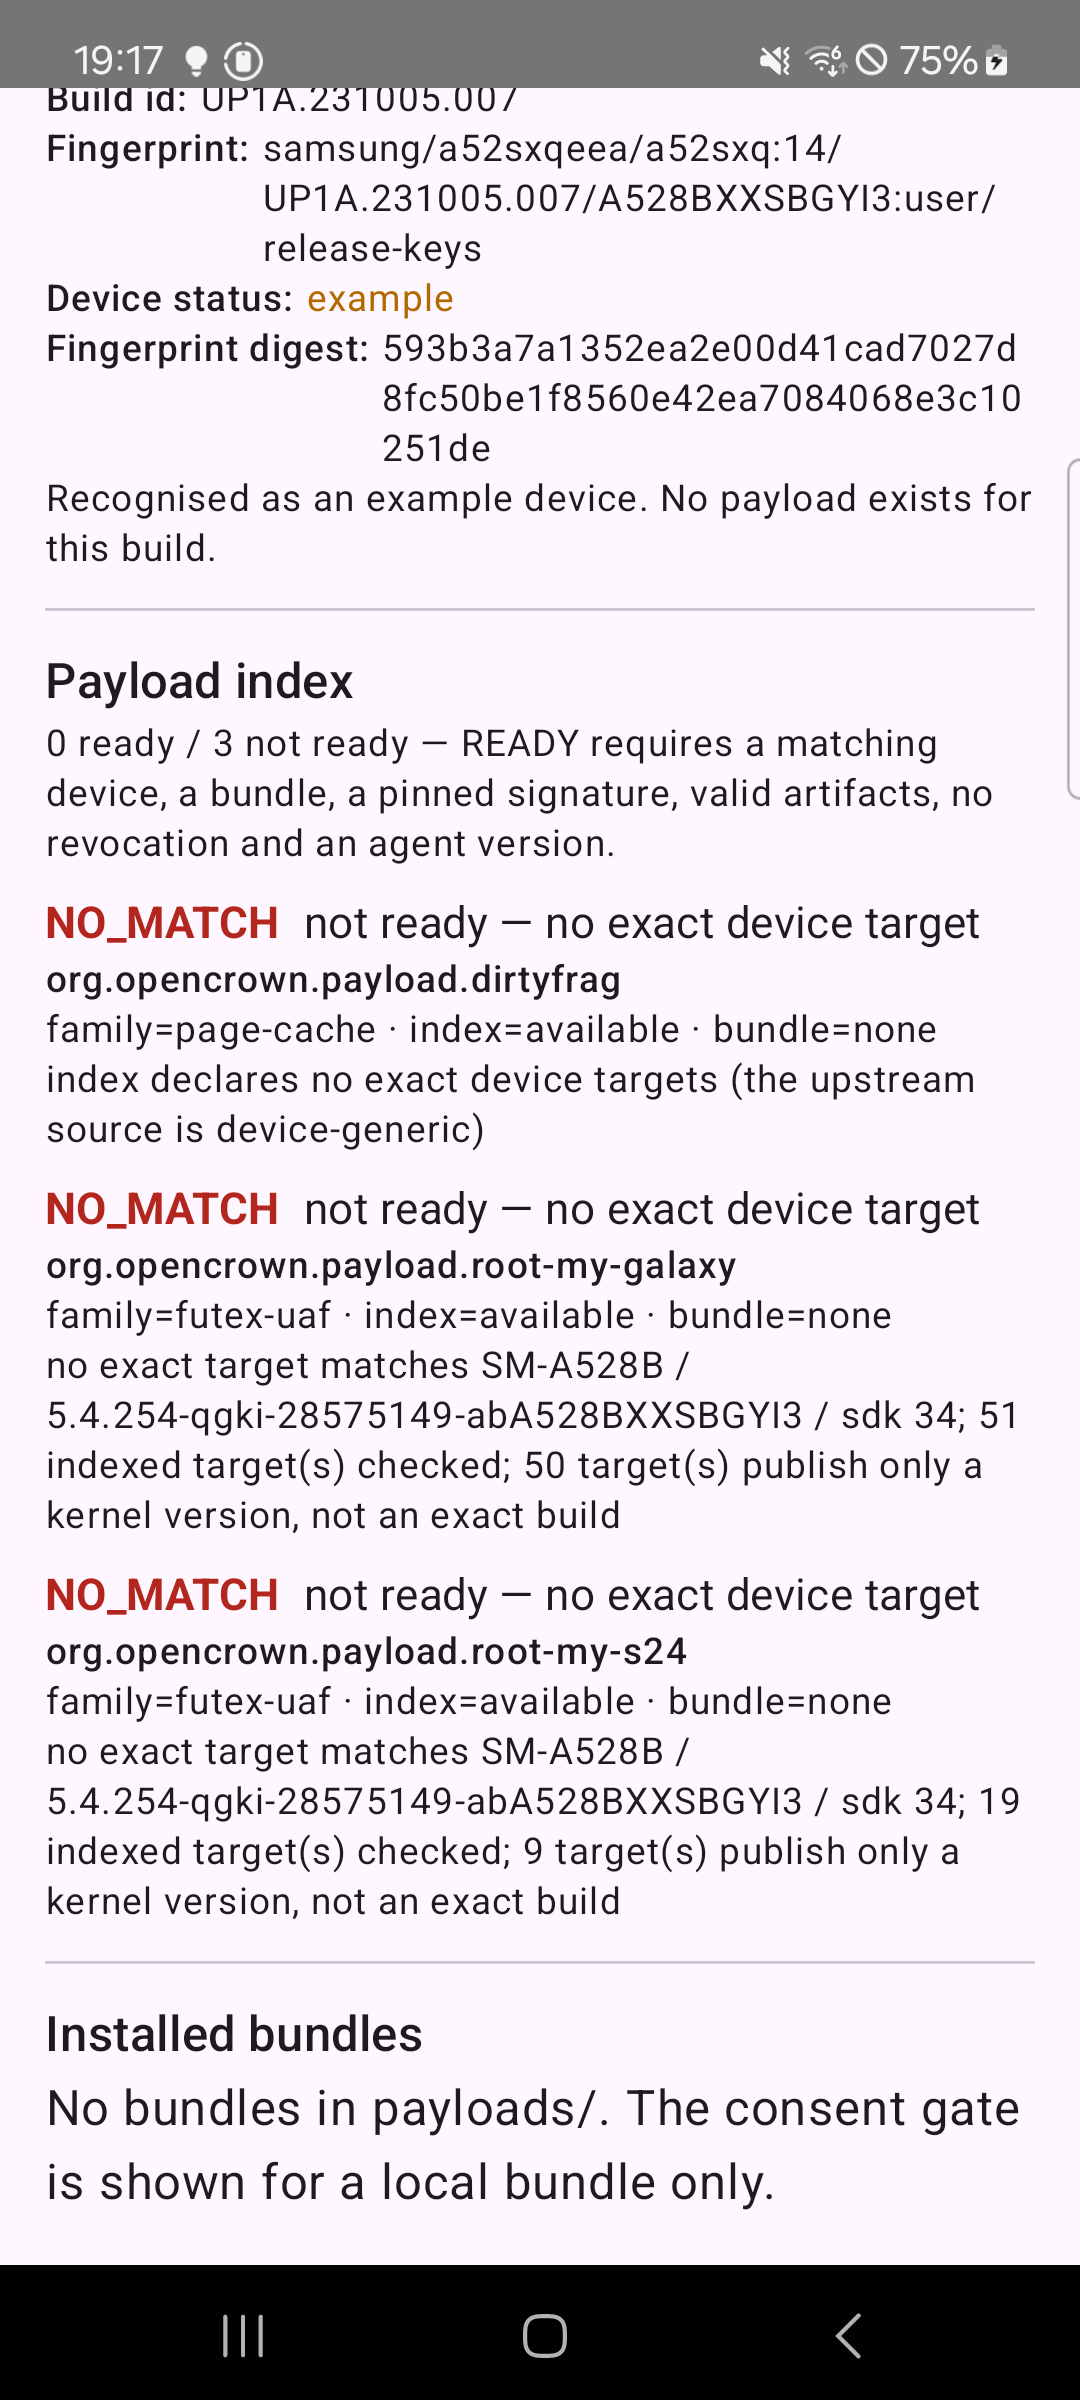
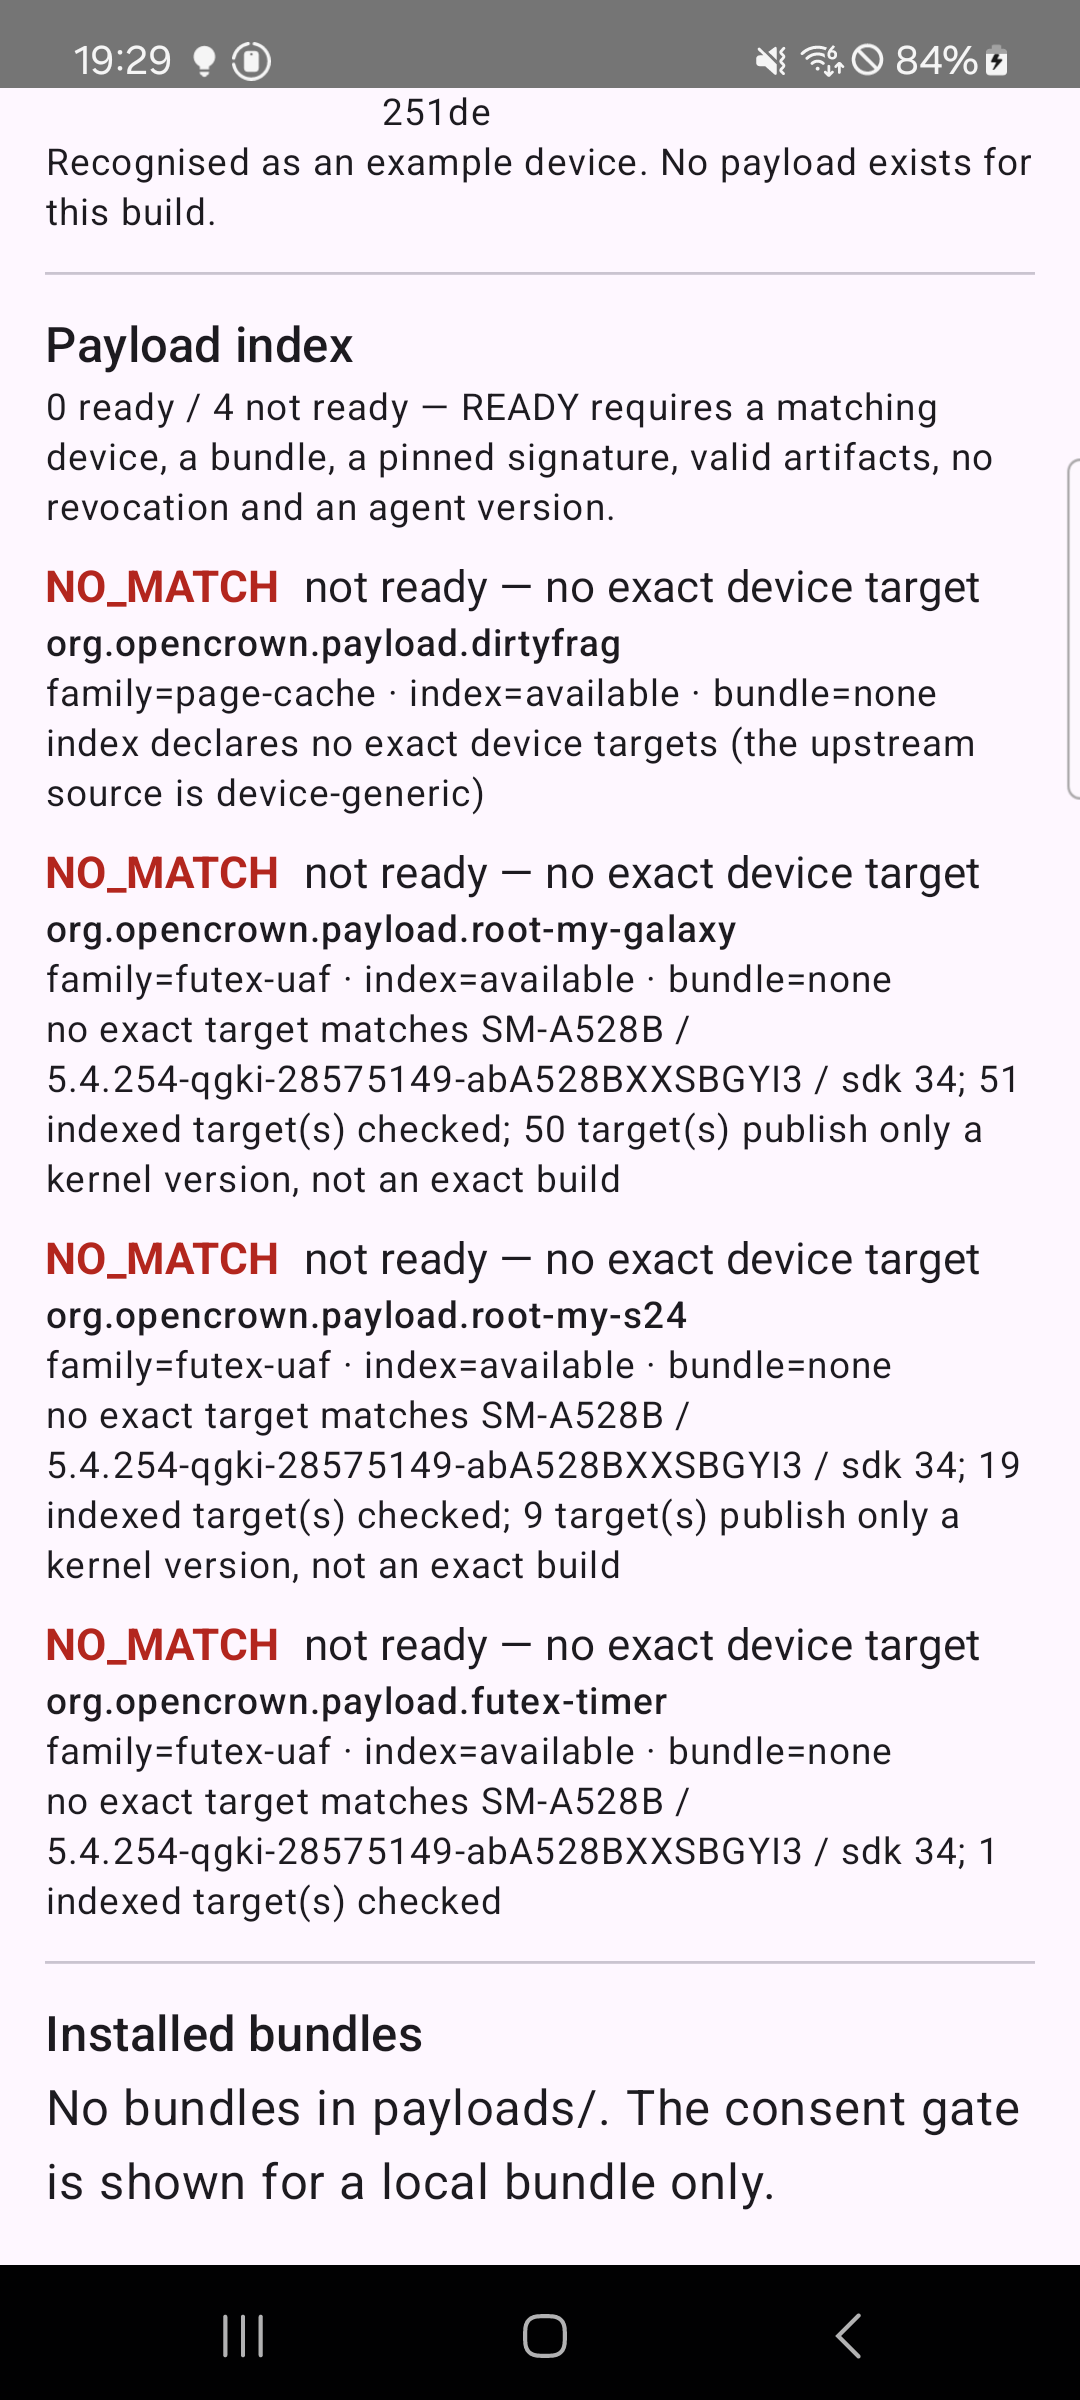
docs: refresh A52 evidence for the four-payload index
Reinstall the app with the external futex-timer entry, relaunch on R5CR916B48N,
and recapture the probe and payload-list screenshots and the filtered logcat.
The A52 remains example, shows 0 ready / 4 not ready, and every row has
bundle=none. futex-timer correctly says no_match because its sole target is
SM-S9280 DZJ3, not the A52.

Document the external payload quarantine, the private-use licence deferral
(ADR 0015), the consent-gated execution supervisor (ADR 0016), the 71 indexed
targets, and the remaining blockers: no Shizuku/payload bootstrap runner, no
DZJ3 device, and no Open Crown hardware run of any payload.

Verification (final):
- cargo fmt --all -- --check -> exit 0
- cargo clippy --workspace --all-targets -- -D warnings -> exit 0
- cargo test --workspace -> 120 passed, 0 failed
- python unittest discover -> 73 passed, 0 failed
- payload_index validate -> ok
- devices validate -> ok
- verify.py catalog/examples/signed -> ok
- verify.py payloads/external/...futex-timer -> ok
- tools/link-check -> ok
- gradle :app:assembleDebug :app:testDebugUnitTest -> BUILD SUCCESSFUL, 25 JVM tests
- A52 logcat: 5 OpenCrown lines, 0 FATAL/UnsatisfiedLinkError

Changed region(s): [[0.0306, 0.0, 0.9472, 0.8125], [0.7028, 0.0, 0.8861, 0.0312]]

diff --git a/docs/13-status.md b/docs/13-status.md
@@ -16,7 +16,7 @@ hashes: [evidence/a52-m1.md](evidence/a52-m1.md).
 | JNA + native loading | `libjnidispatch.so` and `libopencrown.so` loaded in the app process; no `UnsatisfiedLinkError` |
 | Probe FFI | Real model, kernel release, ABI, SDK, build id and fingerprint shown |
 | Supported-list status | `example`, never `supported` |
-| Readiness FFI | 3 indexed payloads, 0 ready, all `no_match` with `bundle=none` |
+| Readiness FFI | 4 indexed payloads, 0 ready, all `no_match` with `bundle=none` |
 | App stability | No `FATAL EXCEPTION`; process alive; [screenshot](evidence/a52-probe.png) |
 | Scope | No payload installed/run, no root, no controller, no Watch |
 
@@ -29,9 +29,11 @@ inventing an A52 payload target.
 
 | Area | Evidence |
 | --- | --- |
-| Docs and ADRs | 14 documents, 14 ADRs, 0 broken links |
-| Payload index | `catalog/payload-index.json`, schema, Python validator, 70 published targets across 3 sources; null `kernel_build` never matches |
+| Docs and ADRs | 14 documents, 16 ADRs, 0 broken links |
+| Payload index | `catalog/payload-index.json`, schema, Python validator, 71 published targets across 3 sources plus the external `futex-timer` entry; null `kernel_build` never matches |
 | Readiness | `runtime::readiness`; every reason covered, including a Python-signed bundle verified by Rust and a revoked one |
+| External payload | `payloads/external/org.opencrown.payload.futex-timer` verifies, is indexed, and is READY on its exact `SM-S9280` DZJ3 target by data-on-disk rules; not run |
+| Execution supervisor | `runtime::execution` consent, staged-hash, token/boot-id, timeout and three-attempt budget tests; host-only |
 | Capture tooling | btsnoop, pcap, pcapng parsers; fixture model |
 | Spec tooling | spec-lint, vector-gen, fixture-diff |
 | Catalog trust | Ed25519 sign/verify, bundle verify, revocation builder, hash-chained transparency log |
@@ -46,9 +48,14 @@ inventing an A52 payload target.
 
 - The agent socket under Android's SELinux policy and app UID.
 - The K2a probe (`tools/hci-echo`): it compiles for arm64 but has never run.
-- Any payload, exploit chain, controller path, or root acquisition.
+- Any payload, exploit chain, controller path, or root acquisition. The
+  external `futex-timer` payload has not been run by Open Crown.
+- The external payload's Shizuku/shell runner: `libtimer` is started from a
+  shell/UserService context upstream; the app is `untrusted_app` and has no
+  such bridge yet.
 - Consent-gated prepare on a real signed bundle: the A52 is `example`, so the
-  gate correctly blocks; only the example bundle is exercised on the host.
+  gate correctly blocks; only the example bundle and the host-only external
+  bundle are exercised on the host.
 
 ## Blocked / out of M1
 
@@ -59,13 +66,14 @@ inventing an A52 payload target.
 | Protocol specs and vectors | Captures from a Watch |
 | Activation decision (ADR 0003) | A Watch and a test account |
 | Release signing | The offline key ceremony in ADR 0012; M1 pins the throwaway example key |
-| Payload verification | A built, signed, exact-target bundle; never inferred from A52 app testing |
+| Payload hardware verification | A target device (the A52 is not `SM-S9280` DZJ3) and a privileged runner |
+| Public distribution of `payloads/external/` | Licence resolution; the tree is private-use only (ADR 0015) |
 
 ## Numbers
 
 ```text
-rust tests    112
-python tests  69
+rust tests    120
+python tests  73
 jvm tests     25
 apk           26 MB, arm64-v8a, libopencrown.so + libjnidispatch.so
 supply chain  advisories ok, bans ok, licenses ok, sources ok
@@ -85,6 +93,7 @@ PYTHONPATH=tools/lib /tmp/oc-venv/bin/python -m unittest discover -s tools/tests
 python3 catalog/tooling/payload_index.py validate --index catalog/payload-index.json
 python3 catalog/tooling/devices.py validate --list catalog/supported-devices.json
 python3 catalog/tooling/verify.py catalog/examples/signed
+python3 catalog/tooling/verify.py payloads/external/org.opencrown.payload.futex-timer
 python3 tools/link-check/cli.py .
 ./gradlew :app:assembleDebug :app:testDebugUnitTest
 ```
@@ -100,6 +109,8 @@ adb exec-out screencap -p > docs/evidence/a52-probe.png
 
 ## Next
 
-Phase 0 remains: run the first payload on a stock phone, record stage A (uid 0)
-and stage B (controller bind), and fill `docs/evidence/phase0-k2a.md`. M1 did
-not start that work and must not be read as evidence for it.
+The external payload is extracted and the execution contract exists, but two
+things are still missing before it can run from the app: a privileged runner
+(Shizuku or the payload bootstrap) and a target device. The A52 cannot stand in
+for `SM-S9280` DZJ3. Phase 0 still needs a K2a/K2b result, and public release
+still needs the licence decision in ADR 0015.

diff --git a/docs/evidence/a52-m1.md b/docs/evidence/a52-m1.md
@@ -51,7 +51,7 @@ entry, which uses the same values.
 ## Observed app output
 
 Screenshot [a52-probe.png](a52-probe.png) (sha256
[2 lines of base64/hex data omitted]
 
 - Model `SM-A528B`, kernel release
   `5.4.254-qgki-28575149-abA528BXXSBGYI3`, ABI `arm64-v8a`, SDK `34`, build id
@@ -61,36 +61,43 @@ Screenshot [a52-probe.png](a52-probe.png) (sha256
   "Recognised as an example device. No payload exists for this build."
 - Fingerprint digest
[1 lines of base64/hex data omitted]
-- Payload index summary: `0 ready / 3 not ready`.
+- Payload index summary: `0 ready / 4 not ready`.
 
 Screenshot [a52-payloads.png](a52-payloads.png) (sha256
-`56c9912b0b012c0dac157e52326173eefb2bdfa692721e58237af09af1b6518`) shows all
-three indexed payloads:
[1 lines of base64/hex data omitted]
+four indexed payloads:
 
 | Payload | Index status | Shown result | Bundle |
 | --- | --- | --- | --- |
 | `org.opencrown.payload.dirtyfrag` | available | `NO_MATCH` | `bundle=none` |
 | `org.opencrown.payload.root-my-galaxy` | available | `NO_MATCH` | `bundle=none` |
 | `org.opencrown.payload.root-my-s24` | available | `NO_MATCH` | `bundle=none` |
+| `org.opencrown.payload.futex-timer` | available | `NO_MATCH` | `bundle=none` |
 
 Every row says `bundle=none`; no row says READY. The reason is `no_match`, not
 `no_bundle`, because none of the supplied sources publishes a target for
 `SM-A528B` / `5.4.254-qgki-28575149-abA528BXXSBGYI3`. Synthesizing an A52 index
-entry just to display `no_bundle` would invent a payload target, which the
-mission forbids. The `no_bundle` path is covered by the runtime and JVM tests
+entry just to display `no_bundle` would invent a payload target. The
+`no_bundle` path is covered by the runtime and JVM tests
 (`readiness_without_bundle_crosses_the_boundary`,
 `missingBundleIsNoBundle`).
+
+The fourth row is the newly integrated external `futex-timer` payload. Its
+only target is `SM-S9280` / `6.1.145-android14-11-3254743-abS9280ZCS6DZJ3`, so
+the A52 correctly reports `no_match`. The bundle is in the repository under
+`payloads/external/` and is **not** installed in the app; it was not run.
 
 ## Logcat
 
 Filtered log: [a52-m1.log](a52-m1.log) (sha256
[2 lines of base64/hex data omitted]
 
 ```text
 OpenCrown: probe model=SM-A528B kernel=5.4.254-qgki-28575149-abA528BXXSBGYI3 abi=arm64-v8a sdk=34 build=UP1A.231005.007 status=example digest=593b3a7a...
 OpenCrown: readiness id=org.opencrown.payload.dirtyfrag reason=no_match status=available ...
 OpenCrown: readiness id=org.opencrown.payload.root-my-galaxy reason=no_match status=available ...
 OpenCrown: readiness id=org.opencrown.payload.root-my-s24 reason=no_match status=available ...
+OpenCrown: readiness id=org.opencrown.payload.futex-timer reason=no_match status=available ...
 ```
 
 `grep -cE 'FATAL EXCEPTION|AndroidRuntime|UnsatisfiedLinkError'` returned `0`.
@@ -104,10 +111,12 @@ readiness) crossed the boundary successfully.
 - [x] Probe shows the A52's real model, kernel release, ABI, SDK, build id and
       fingerprint.
 - [x] Device status is `example`, never `supported`.
-- [x] Payload list shows every indexed payload as not ready with `bundle=none`;
-      none is READY.
+- [x] Payload list shows all four indexed payloads as not ready with
+      `bundle=none`; none is READY.
 - [x] No `UnsatisfiedLinkError`, no `FATAL EXCEPTION`, app process alive.
 - [x] No payload was installed or run, and no root was requested.
 
 **Not proven by this note:** any payload, exploit, controller/HCI path, root,
-agent launch, or Watch interaction. A52-verified is not payload-verified.
+agent launch, or Watch interaction. The external `futex-timer` bundle is not
+run, not installed on the A52, and not hardware-verified by Open Crown.
+A52-verified is not payload-verified.

diff --git a/docs/04-payload-system.md b/docs/04-payload-system.md
@@ -267,3 +267,18 @@ The alternative — guessing the rest of `uname -r` — would defeat the matcher
 The M1 A52 (`SM-A528B`, `5.4.254-qgki-…`) is an `example` device in the
 supported-device list and has no indexed target. The probe therefore reports
 "recognised, nothing ready"; no payload is READY on it.
+
+## 17. External payloads (private development)
+
+The supplied upstream payloads are not standalone bundles. They are
+quarantined unchanged under `payloads/external/` with a `PROVENANCE.md`, the
+upstream licence and a descriptive Open Crown catalog name. They are not
+MIT-licensed, and they are not Open Crown-authored code. See
+[ADR 0015](adr/0015-external-payload-quarantine.md).
+
+The first integrated artifact is `futex-timer`, the SamTimer DZJ3 payload for
+CVE-2026-98260. It is signed, indexed and READY on its exact target by the
+data-on-disk rules, but it has **not** been run or hardware-verified by Open
+Crown, and it needs a Shizuku/shell runner that the app does not have. The A52
+is not a target. Execution is a consent-gated launch contract
+([ADR 0016](adr/0016-consent-gated-execution.md)), not a root escalation.

diff --git a/docs/12-decisions.md b/docs/12-decisions.md
@@ -114,6 +114,25 @@ signature, artifacts, revocation and agent version.
 and the app's probe/payload screens. Probing never stages, mints a token, runs a
 payload, or requests root.
 
+## 13. External payloads are quarantined
+
+**Decision:** upstream payload artifacts are extracted unchanged under
+`payloads/external/`, with provenance and licence notices, and are not
+MIT-licensed. Private use only until the licence decision is resolved.
+[ADR 0015](adr/0015-external-payload-quarantine.md).
+
+**Changes:** the first integrated external payload (`futex-timer`), the
+catalog/index entry, and the public-release gate.
+
+## 14. Execution is a consent-gated launch contract
+
+**Decision:** `runtime::execution` launches a staged entry only with consent
+that matches the manifest, a re-hashed entry, a token and a boot id; it does
+not acquire privilege. [ADR 0016](adr/0016-consent-gated-execution.md).
+
+**Changes:** the execution supervisor and its host tests. It is not yet wired
+to Kotlin or run on the A52.
+
 ## Left open on purpose
 
 1. **Which side authenticates** — Phase 2, ADR 0003 stays Proposed.

diff --git a/docs/README.md b/docs/README.md
@@ -36,6 +36,8 @@
 | [0012](adr/0012-catalog-key-custody.md) | Offline root, delegated signing keys, revocation, log | Accepted |
 | [0013](adr/0013-agent-ipc-envelope.md) | Protobuf envelope v1 with explicit limits | Accepted |
 | [0014](adr/0014-payload-index-and-readiness.md) | Source-level payload index and a data-only readiness engine | Accepted |
+| [0015](adr/0015-external-payload-quarantine.md) | External payloads quarantined; private-use licence deferred | Accepted for private development |
+| [0016](adr/0016-consent-gated-execution.md) | Consent-gated execution supervisor | Accepted for private development |
 
 ## Status
 
